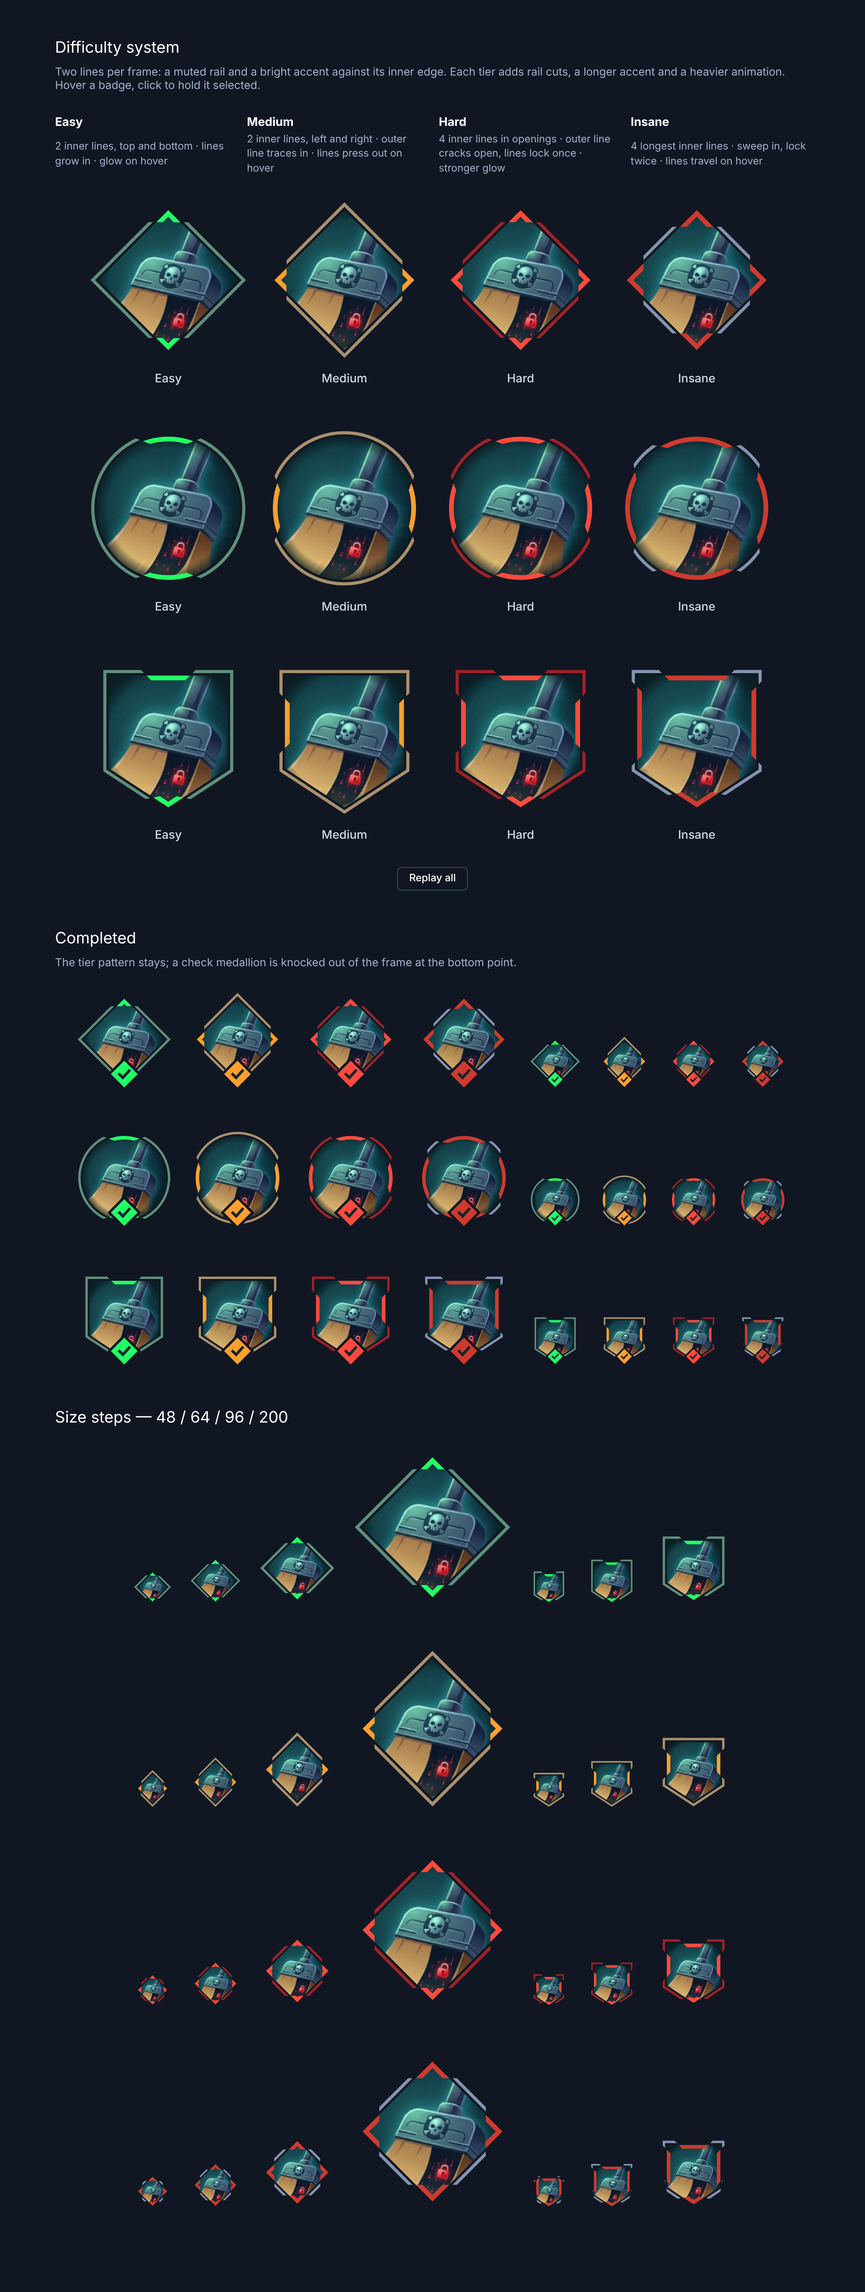
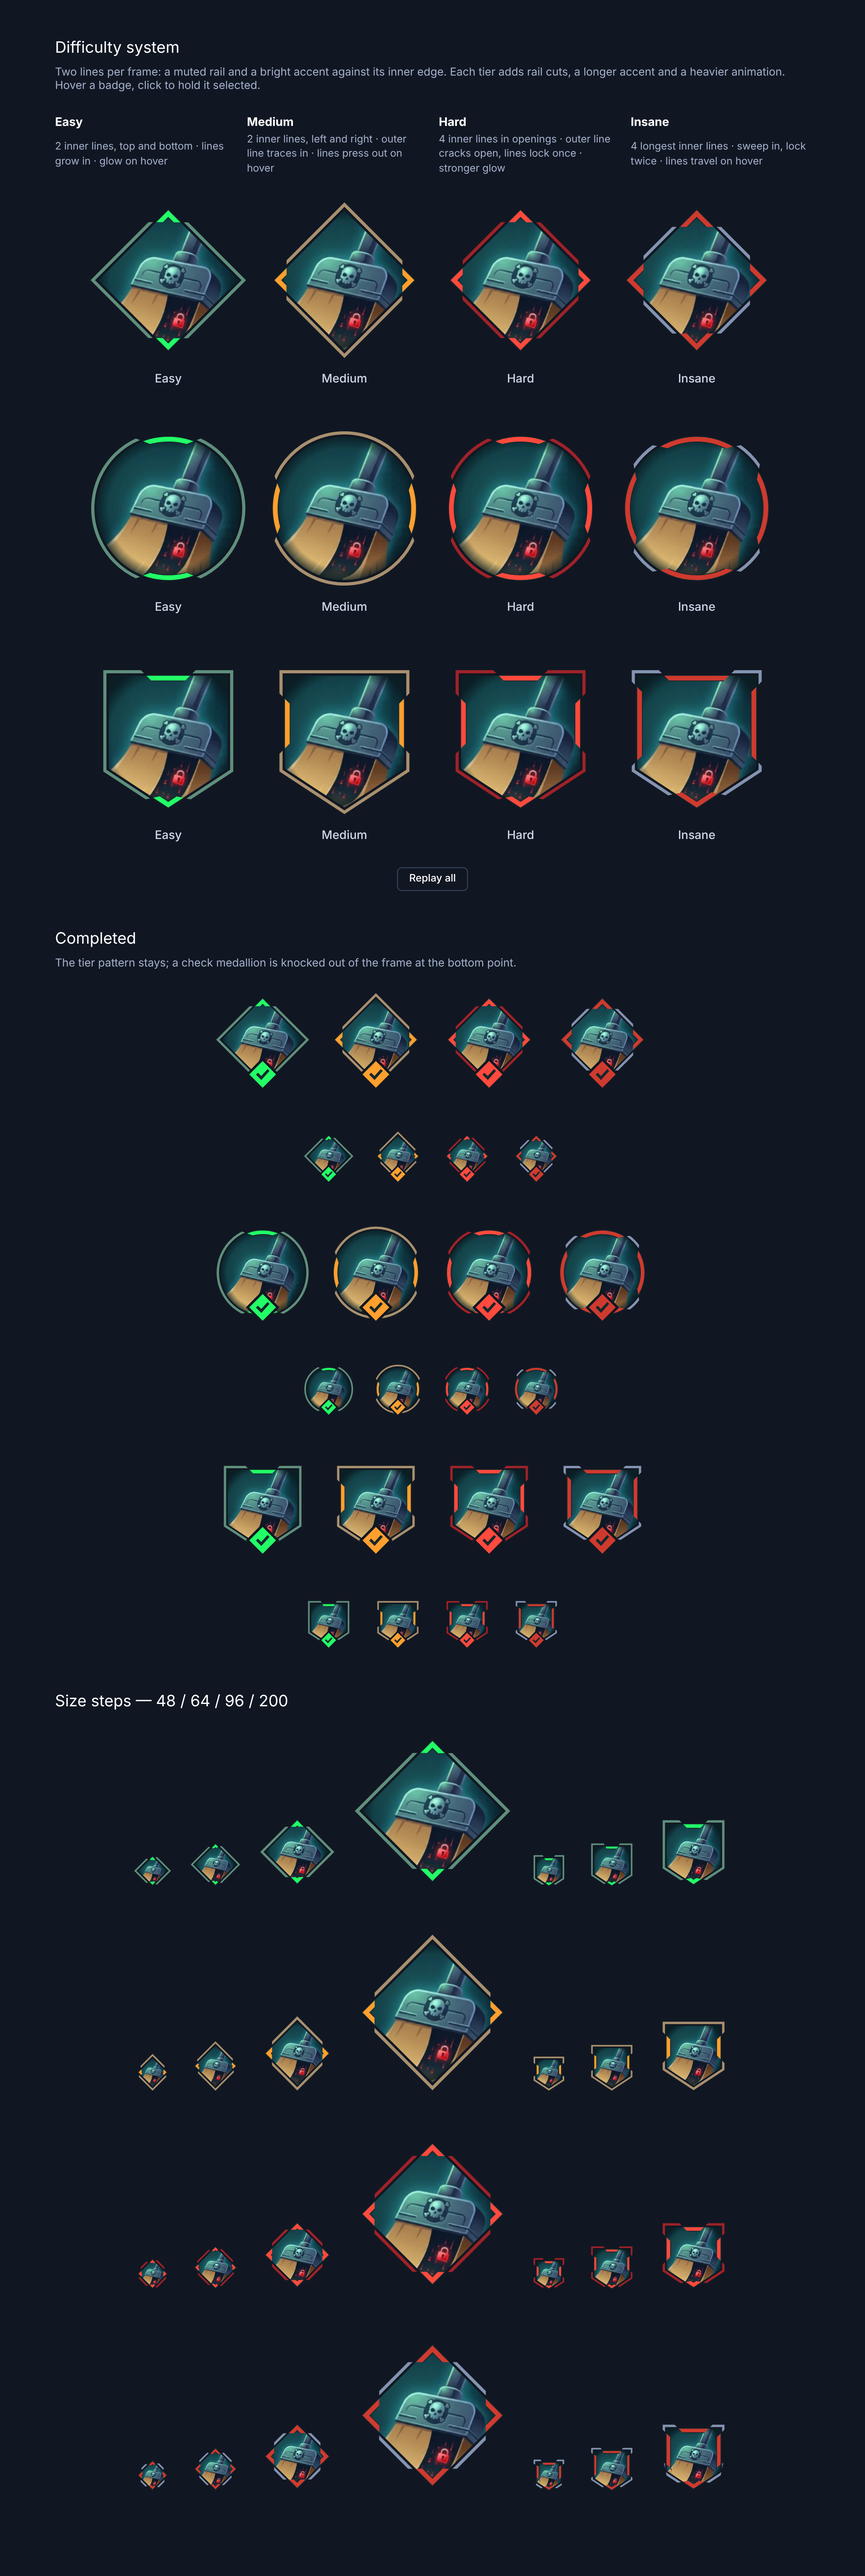
Difficulty frame: per-size notch tuning and a dark outline under blocks for small sizes
Claude-Session: https://claude.ai/code/session_011nxYfuYnhHf6ffMbWhu3mX

diff --git a/components/difficulty-frame/difficulty-frame.js b/components/difficulty-frame/difficulty-frame.js
@@ -51,11 +51,15 @@
   const cssColor = ([name, fallback]) => `var(${name}, ${fallback})`;
 
   // Hand-tuned size steps, like an icon set. A badge uses the largest step that fits its size.
+  // Small steps get whole-pixel gaps, lighter blocks and a gentler slant, so the
+  // notches stay crisp instead of blurring into the art.
+  //   space  gap between rail and block, px · block  block thickness (× stroke) ·
+  //   lean   keystone slant (tan of its angle: 1 = 45°, 0.58 = 30°)
   const STEPS = [
-    { min: 0, stroke: 2 },
-    { min: 64, stroke: 2 },
-    { min: 80, stroke: 3 },
-    { min: 160, stroke: 4 },
+    { min: 0, stroke: 2, space: 2, block: 1.25, lean: 0.58 },
+    { min: 64, stroke: 2, space: 2, block: 1.25, lean: 0.58 },
+    { min: 80, stroke: 3, space: 2, block: 1.5, lean: 1 },
+    { min: 160, stroke: 4, space: 3, block: 1.5, lean: 1 },
   ];
   const SPACING = 0.75;        // space between the rail's inner edge and the inner line (× stroke), never under 1.5px
   const STRAIGHT_BOOST = 1.6;  // inner lines on straight or curved stretches run this much longer than chevrons
@@ -103,7 +107,7 @@
   const CSS = `
     htb-difficulty-frame { display: inline-block; line-height: 0; }
     htb-difficulty-frame svg { overflow: visible; }
-    htb-difficulty-frame [data-rail], htb-difficulty-frame [data-accent], htb-difficulty-frame [data-accent-glow] {
+    htb-difficulty-frame [data-rail], htb-difficulty-frame [data-accent], htb-difficulty-frame [data-accent-glow], htb-difficulty-frame [data-accent-back] {
       stroke-dasharray: var(--dash, none); stroke-dashoffset: var(--offset, 0);
       transition: stroke-dasharray .35s cubic-bezier(.3, .8, .3, 1), stroke-dashoffset .35s cubic-bezier(.3, .8, .3, 1);
     }
@@ -112,6 +116,8 @@
       transition: stroke-width .3s cubic-bezier(.3, .8, .3, 1), stroke-dasharray .35s cubic-bezier(.3, .8, .3, 1), stroke-dashoffset .35s cubic-bezier(.3, .8, .3, 1);
     }
     htb-difficulty-frame:is(:hover, [selected]) :is([data-accent], [data-accent-glow]) { stroke-width: var(--thin); }
+    htb-difficulty-frame [data-accent-back] { stroke-width: calc(var(--thick) + 2px); transition: stroke-width .3s cubic-bezier(.3, .8, .3, 1); }
+    htb-difficulty-frame:is(:hover, [selected]) [data-accent-back] { stroke-width: var(--thin); }
     htb-difficulty-frame [data-accents] {
       transform-box: view-box; transform-origin: var(--c) var(--c);
       transition: transform .3s cubic-bezier(.3, 1.4, .5, 1);
@@ -320,7 +326,7 @@
       // Slanted cut ends: lean > 0 narrows the opening going inward (keystone: the inner
       // line is the cut-out piece pushed straight in), < 0 widens it (splayed).
       const LEANS = { angled: -1, keystone: 1, 'keystone-soft': Math.tan(Math.PI / 6) };
-      const lean = this.getAttribute('cuts') === 'square' ? 0 : LEANS[this.getAttribute('cuts')] ?? LEANS.keystone;
+      const lean = this.getAttribute('cuts') === 'square' ? 0 : LEANS[this.getAttribute('cuts')] ?? step.lean;
       const angled = lean !== 0;
       const cap = 0; // flat line ends: dashes and gaps need no allowance
       const form = shapeName;
@@ -337,8 +343,9 @@
       // `space` below the rail's inner edge, so the indent reads. On hover it thins to
       // the rail's own width and slides up into the opening, closing the frame.
       // The art keeps its full size and the blocks overlap its edge.
-      const space = Math.max(stroke * SPACING, 1.5);
-      const blockW = stroke * BLOCK_WEIGHT;
+      const custom = stroke !== step.stroke; // an explicit stroke scales the step's tuning
+      const space = custom ? Math.max(Math.round(stroke * SPACING), 2) : step.space;
+      const blockW = stroke * (custom ? BLOCK_WEIGHT : step.block);
       const blockOffset = stroke / 2 + space + blockW / 2; // block centreline, inward from the rail's
       const accentR = r - blockOffset * shape.ring;
       // The art runs right up to the gap inside the rail, under the recessed blocks.
@@ -402,6 +409,8 @@
               </g>
               <g ${angled ? `mask="url(#${id}-keep)"` : ''}>
                 <g data-accents>
+                  <!-- A thin outline in the frame colour keeps the block crisp against the art. -->
+                  <path data-accent-back d="${shapePath(shape, c, accentR)}" stroke="var(--htb-frame-bg, #16262c)" stroke-linecap="butt"/>
                   <path data-accent d="${shapePath(shape, c, accentR)}" stroke="${accent}" stroke-width="${blockW}" stroke-linecap="butt"/>
                 </g>
               </g>
@@ -438,7 +447,7 @@
       const lens = opened.map((p) => (shape.points.includes(p.side) ? aLen : aLen * (shape.boost?.[p.side] ?? STRAIGHT_BOOST)) + slantTrim);
       const glowPath = this.querySelector('[data-accent-glow]');
       if (opened.length) setDash(accentPath, dashesAt(opened.map((p) => p.at), aTotal, lens, 0));
-      else { accentPath.remove(); glowPath.remove(); } // a tier with no open sides is a closed outline
+      else { accentPath.remove(); glowPath.remove(); this.querySelector('[data-accent-back]').remove(); } // a tier with no open sides is a closed outline
       accentPath.style.setProperty('--len', aTotal);
 
       const spans = railSpans(`${form}|${level}|${(accentR / r).toFixed(3)}`, railPath, accentPath, opened.map((p) => p.at), lens, total, aTotal)
@@ -448,7 +457,7 @@
       if (angled && spans.length) {
         // Angled cuts: the rail stays whole and is masked; each opening is a slanted
         // quad whose two ends run at 45° through the rail and the inner line alike.
-        const depth = stroke / 2 + space + blockW + 1; // reaches past the block
+        const depth = stroke / 2 + space + blockW + 2; // reaches past the block and its outline
         // Outward reach clears the overshoot of a sharp corner's mitre.
         const quads = spans.map(([m, l]) => slantedQuad(railPath, c, m - l / 2, m + l / 2, total, depth, stroke * 1.5 + 1, lean));
         const poly = (q, fill) => `<polygon points="${q.map(([x, y]) => `${x},${y}`).join(' ')}" fill="${fill}"/>`;
@@ -463,7 +472,8 @@
         setDash(railPath, gapsAt(cuts, total, widths, cap, stroke * 2.5));
       }
 
-      ['--dash', '--offset', '--len'].forEach((k) => glowPath.style.setProperty(k, accentPath.style.getPropertyValue(k)));
+      const backPath = this.querySelector('[data-accent-back]');
+      ['--dash', '--offset', '--len'].forEach((k) => [glowPath, backPath].forEach((el) => el?.style.setProperty(k, accentPath.style.getPropertyValue(k))));
       this.fx = { railPath, accentPath, total, aTotal, aCentres: aCentres.map((p) => p.at), aLen, cuts: angled ? [] : cuts, stroke, accentW, cap, level };
       if (animate) queueMicrotask(() => this.play());
     }
